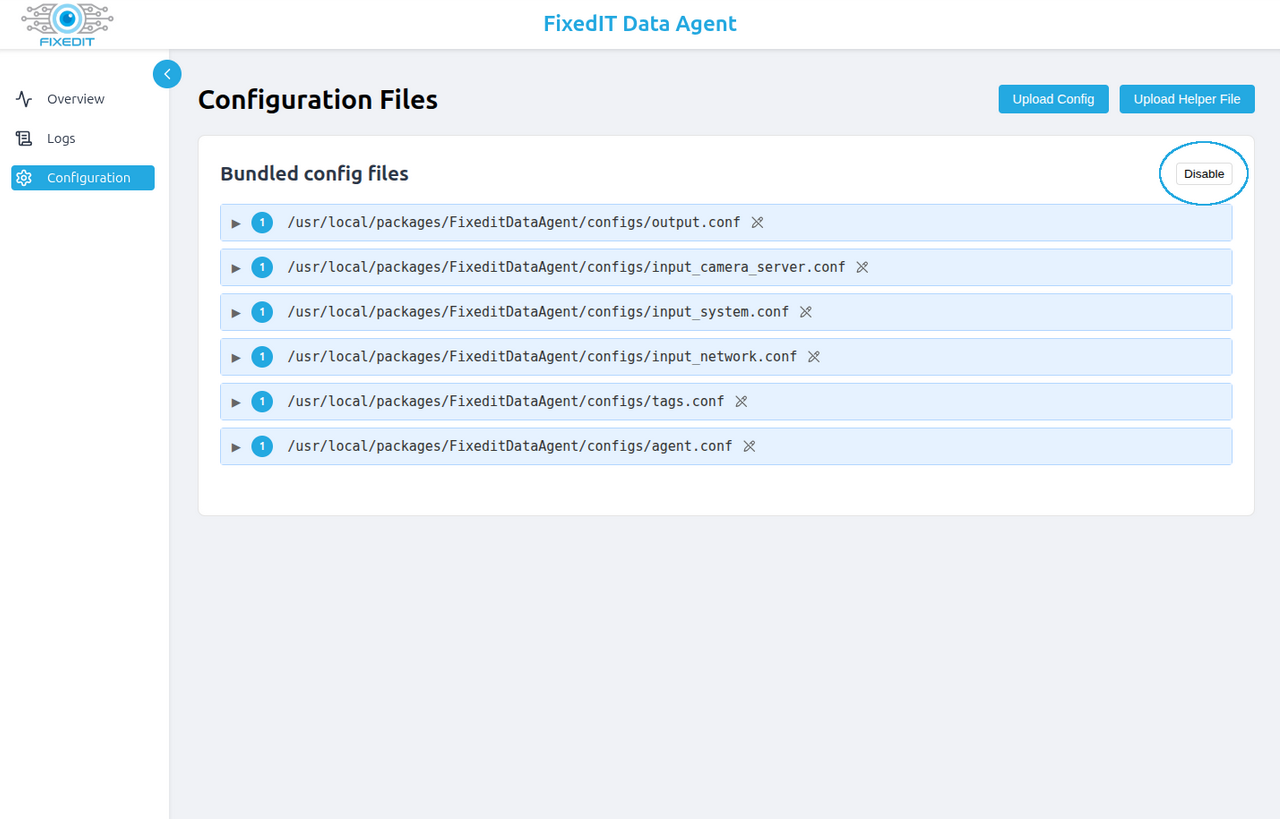
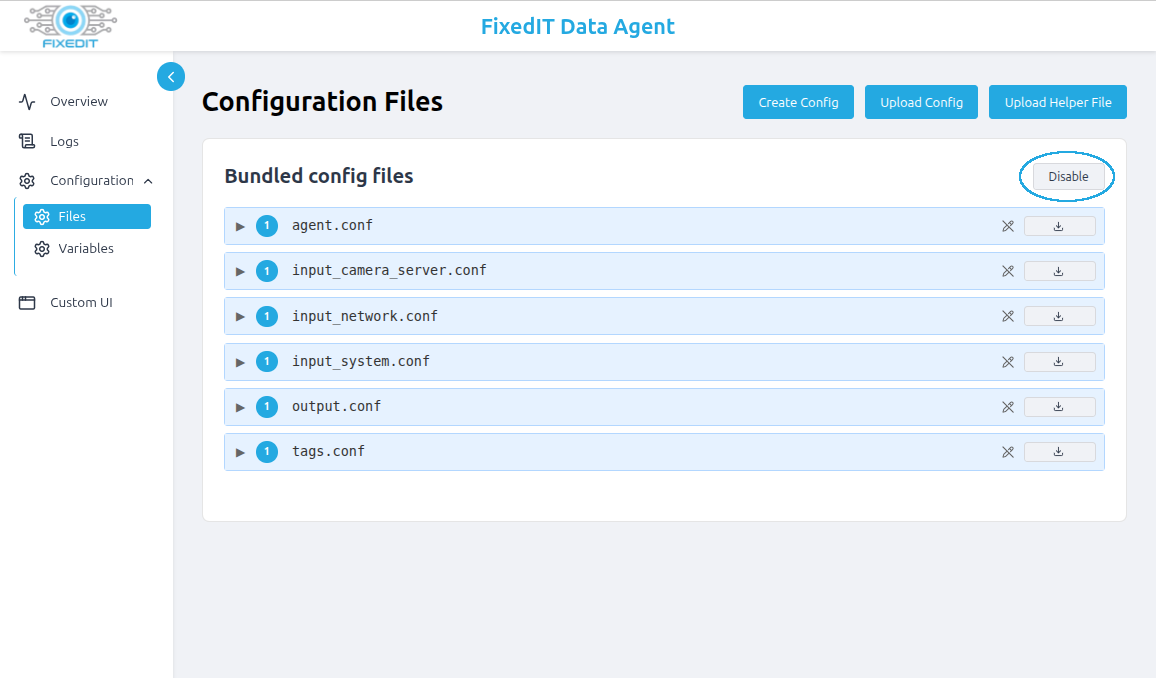
Added Quick Setup with pictures to CPU Overlay

diff --git a/project-cpu-to-overlay/README.md b/project-cpu-to-overlay/README.md
@@ -10,14 +10,29 @@
 
 ## Quick Setup
 
-1. Disable the bundled configuration files under Configuration->Files.
-2. Upload and enable all `.conf` files under Configuration->Files by pressing the "Upload Config" button and then "Enable" next to the uploaded file.
-3. Upload `set_overlay_text.sh` by pressing the "Upload helper file" button and mark it as "Make Executable".
-4. Unselect the "Clear all values" slider under the "VAPIX credentials" section and input the username and password of a VAPIX account that has at least operator access.
-5. Verify that you see blue lines in the "Logs" tab with the current CPU usage.
-6. Go to the camera's Video->Overlays tab and add a new "Linegraph" overlay widget, configure it to use `#D1` as data source.
+1. Disable the bundled configuration files under `Configuration->Files`.
 
-![Linegraph overlay widget](.images/cpu-overlay.png)
+    ![Disable bundled config files](../.images/configuration-page-disable-bundled.png)
+
+2. Upload and enable all `.conf` files under `Configuration->Files` by pressing the "Upload Config" button and then "Enable" next to the uploaded file.
+
+    ![Enable-Configs](.images/config-page.png)
+
+3. Upload `set_overlay_text.sh` by pressing the "Upload helper file" button and mark it as "Make Executable". Leave "Convert to Unix line endings" checked.
+
+    ![Helper-File](.images/helper-file.png)
+
+4. Under `Configuration->Variables` select the "Clear all values" slider under the "VAPIX credentials" section and input the username and password of a VAPIX account that has at least operator access.
+
+    ![Vapix-Credentials](.images/vapix-credentials.png)
+
+5. Verify that you see blue lines in the `Logs->Pipeline Data` tab with the current CPU usage. By default, the logs are configured to show up every 60 seconds, starting on the next full minute.
+
+    ![CPU-Usage](.images/cpu-usage.png)
+
+6. Go to the camera's `Video->Overlays` tab and add a new "Linegraph" overlay widget, configure it to use `#D1` as data source. It is currently hard-coded to work with `#D1`.
+
+    ![Linegraph overlay widget](.images/cpu-overlay.png)
 
 ## Files
 
